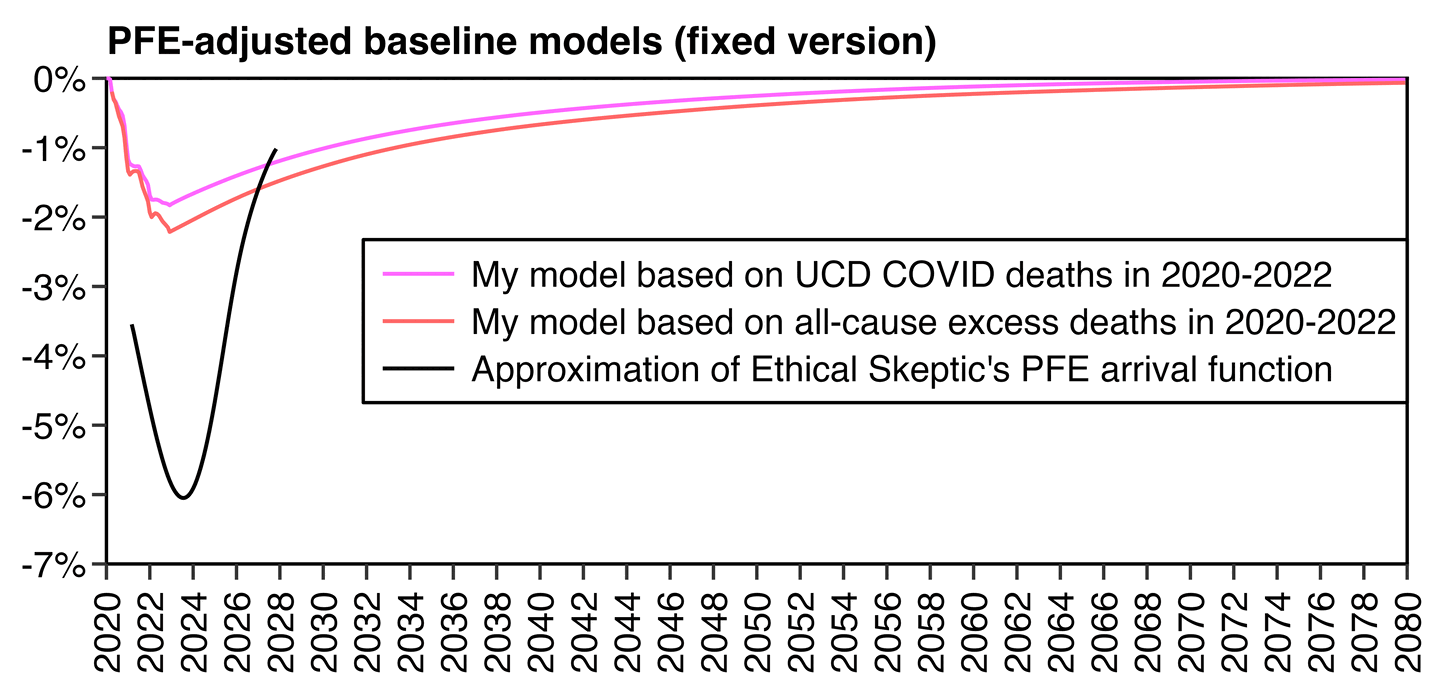
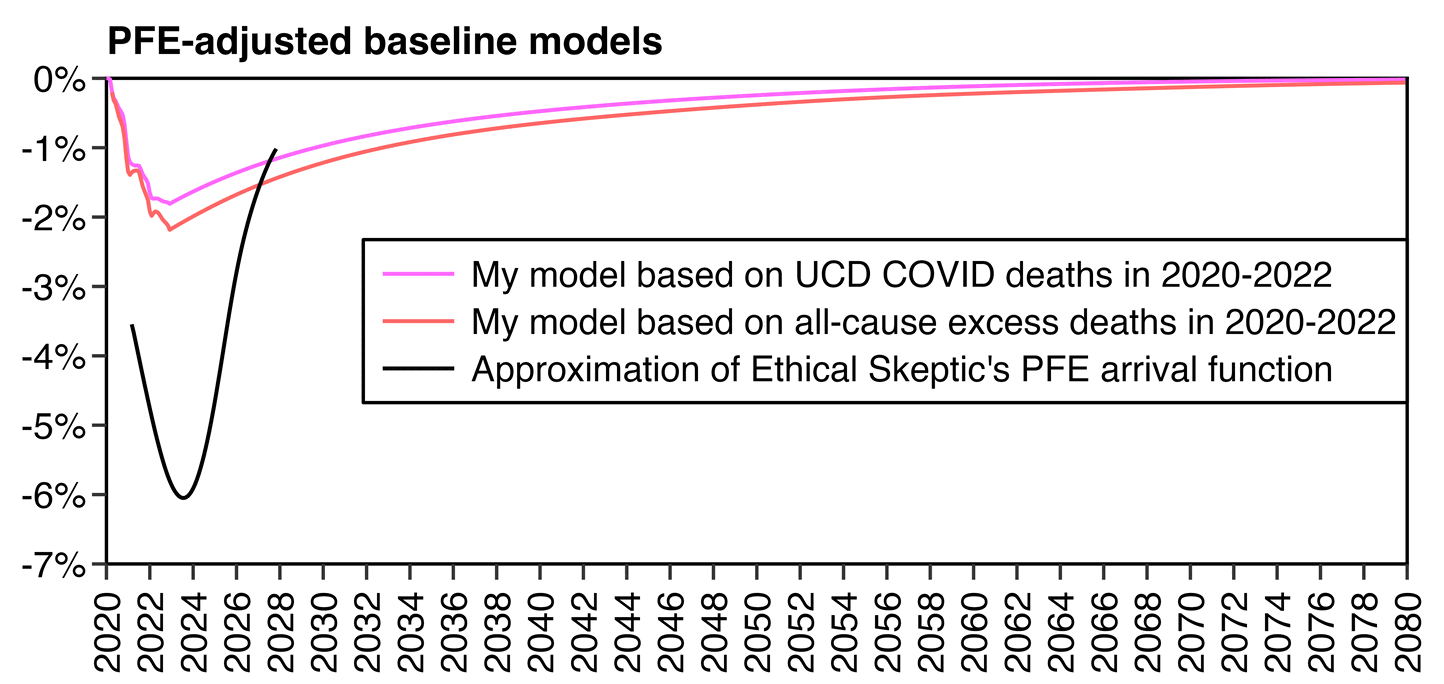
a

Changed region(s): [[0.0935, 0.1228, 0.7479, 0.3377], [0.4675, 0.0307, 0.6544, 0.0921]]

diff --git a/ethical2.html b/ethical2.html
@@ -451,42 +451,42 @@ months=12*60;maxage=Inf
 
 t=do.call(rbind,lapply(2020:2022,\(i)fread(paste0(i,&quot;.csv.gz&quot;))[ucod==&quot;U071&quot;&amp;restatus!=4,.(age,month=(year-2020)*12+monthdth)]))
 t=t[age!=9999][,age:=ifelse(age&gt;1000,age%%1000,0)]
-t=t[age&lt;maxage]
+t=t[age&lt;=maxage]
 t[,age:=age*12+sample(0:11,.N,T)]
 covid=t[,.(pop=.N),.(month,age)]
 
 pop=fread(&quot;http://sars2.net/f/uspopdead.csv&quot;)[year==2019]
-cmr=pop[age!=100,dead/pop]/12
-cmr=pmin(1,exp(spline(seq(7,,12,100),log(cmr),xout=0:(12*121))$y))
-
-dead1=double();prev=NULL
-for(i in 1:months){
-  cur=rbind(prev,covid[month==i])[,.(pop=sum(pop)),.(month,age)]
-  died=cur[,cmr[pmin(age+1,length(cmr))]*pop]
-  dead1[i]=sum(died)
-  prev=cur[,.(month=i+1,age=age+1,pop=pop-died)]
-}
+risk=pop[age&lt;100,.(age,risk=1-(1-dead/pop)^(1/12))]
+risk=c(risk$risk,risk[age&gt;=90,exp(predict(lm(log(risk)~age),.(age=100:120)))])
+risk=spline(seq(6,,12,121),risk,xout=0:(121*12-1))$y
 
 all=fread(&quot;http://sars2.net/f/uspopdeadmonthly.csv&quot;)[year%in%2011:2022]
 all[,date:=(year-2020)*12+month][,cmr:=dead/persondays]
 all=merge(all,all[year&lt;2020,.(date=unique(all$date),base=predict(lm(cmr~date),.(date=unique(all$date)))),age])
 all=merge(all[year&lt;2020,.(monthly=mean(cmr/base)),.(month,age)],all)
-all=all[age&lt;maxage]
-all=all[date%in%1:36,.(pop=sum(dead)-sum(base*persondays*monthly)),,.(age=age*12+6,month=date)]
+allcause=all[age&lt;=maxage&amp;date%in%1:36,.(pop=sum(dead)-sum(base*persondays*monthly)),,.(age=age*12+6,month=date)]
 
-dead2=double();prev=NULL
+dead0=double();cur=pop[age&lt;maxage*12,.(age=age*12+6,pop,month=1)]
 for(i in 1:months){
-  cur=rbind(prev,all[month==i])[,.(pop=sum(pop)),.(month,age)]
-  died=cur[,cmr[pmin(age+1,length(cmr))]*pop]
-  dead2[i]=sum(died)
+  died=cur[,risk[pmin(age+1,length(risk))]*pop]
+  dead0[i]=sum(died)
+  cur=cur[,.(month=i+1,age=age+1,pop=pop-died)][,.(pop=sum(pop)),.(month,age)]
+}
+
+dead1=double();prev=NULL
+for(i in 1:months){
+  cur=rbind(prev,covid[month==i])[,.(pop=sum(pop)),.(month,age)]
+  died=cur[,risk[pmin(age+1,length(risk))]*pop]
+  dead1[i]=sum(died)
   prev=cur[,.(month=i+1,age=age+1,pop=pop-died)]
 }
 
-dead0=double();cur=pop[age&lt;=maxage*12,.(age=age*12,pop,month=1)]
+dead2=double();prev=NULL
 for(i in 1:months){
-  died=cur[,cmr[pmin(age+1,length(cmr))]*pop]
-  dead0[i]=sum(died)
-  cur=cur[,.(month=i+1,age=age+1,pop=pop-died)][,.(pop=sum(pop)),.(month,age)]
+  cur=rbind(prev,allcause[month==i])[,.(pop=sum(pop)),.(month,age)]
+  died=cur[,risk[pmin(age+1,length(risk))]*pop]
+  dead2[i]=sum(died)
+  prev=cur[,.(month=i+1,age=age+1,pop=pop-died)]
 }
 
 pfe=c(-3.5,-4.9,-5.9,-5.9,-4.7,-2.9,-1.7,-1)
@@ -536,13 +536,52 @@ theme(axis.text=element_text(size=7,color=&quot;black&quot;),
 ggsave(&quot;1.png&quot;,width=3.8,height=1.8,dpi=380*4)
 system(&quot;magick 1.png -resize 25% -colors 256 1.png&quot;)</pre>
 </div>
-<p>In the plot above the reason why the red line is still so low in the 2070s is because young age groups had a lot of excess deaths from external causes in 2020-2022.</p>
+<p>Here's a simplified version of my code that only calculates the red model based on all-cause deaths:</p>
+<pre>months=12*60;maxage=Inf
+
+# monthly mortality risk by age in months for ages 0 to 120 (age 0 to 121*12-1 months)
+# risk for ages 100-120 is extrapolated on a log scale from risk for ages 90-99
+pop=fread(&quot;http://sars2.net/f/uspopdead.csv&quot;)[year==2019]
+risk=pop[age&lt;100,.(age,risk=1-(1-dead/pop)^(1/12))]
+risk=c(risk$risk,risk[age&gt;=90,exp(predict(lm(log(risk)~age),.(age=100:120)))])
+risk=spline(seq(6,,12,121),risk,xout=0:(121*12-1))$y
+
+# excess number of all-cause deaths by age in months and month in 2020-2022
+# a seasonality-adjusted linear baseline for CMR in 2011-2019 is used for each age
+# date 1 is January 2020 and date 36 is December 2022
+all=fread(&quot;http://sars2.net/f/uspopdeadmonthly.csv&quot;)[year%in%2011:2022&amp;age&lt;=maxage]
+all[,date:=(year-2020)*12+month][,cmr:=dead/persondays]
+dates=unique(all$date)
+all=merge(all,all[year&lt;2020,.(date=dates,base=predict(lm(cmr~date),.(date=dates))),age])
+all=merge(all[year&lt;2020,.(monthly=mean(cmr/base)),.(month,age)],all)
+allcause=all[date%in%1:36,.(pop=sum(dead)-sum(base*persondays*monthly)),.(age=age*12+6,month=date)]
+
+# baseline model
+dead0=double();cur=pop[age&lt;=maxage,.(age=age*12+6,pop,month=1)]
+for(i in 1:months){
+  died=cur[,risk[pmin(age+1,length(risk))]*pop]
+  dead0[i]=sum(died)
+  cur=cur[,.(month=i+1,age=age+1,pop=pop-died)][,.(pop=sum(pop)),.(month,age)]
+}
+
+# model based on all-cause excess deaths
+dead2=double();prev=NULL
+for(i in 1:months){
+  cur=rbind(prev,allcause[month==i])[,.(pop=sum(pop)),.(month,age)]
+  died=cur[,risk[pmin(age+1,length(risk))]*pop]
+  dead2[i]=sum(died)
+  prev=cur[,.(month=i+1,age=age+1,pop=pop-died)]
+}
+
+# baseline reduction percent for PFE-adjusted baseline (month 1 is January 2020)
+data.table(month=1:months,reductionpct=-dead/dead0*100)</pre>
+<p>In my model the reason why the red line is still so low in the 2070s is because young age groups had a lot of excess deaths from external causes in 2020-2022.</p>
 <p>In November 2024 Ethical Skeptic said that he currently subtracts a total of 668,592 deaths from his PFE-adjusted baseline, even though my approximation of his PFE arrival function was based on this old plot where he only subtracted 587,000 deaths:</p>
 <div class="width5">
 <img src="i/np-bergamo-pfe-arrival.png">
 </div>
-<p>Ethical Skeptic's PFE adjustment is fully <span class="quote">&quot;expired&quot;</span> by October 2027 which means that after that point he will no longer subtract further deaths. But he said that in November 2024 his baseline was approximately 69% expired, which means that at that point he would've already subtracted about 69% of 668,592 deaths, which is about 460,000. However in the red line in my plot above I had only subtracted a total of only about 227,000 deaths by the end of November 2024, which is only about half of his figure.</p>
-<p>Ethical Skeptic often applies heavy adjustment for the PFE even in plots for young age groups like 0-54. But based on these models for ages 0-54, the maximum reduction to the baseline up to the end of 2024 was only about 0.12% in the model based on COVID deaths and about 0.24% in the model based on all-cause deaths:</p>
+<p>Ethical Skeptic's PFE adjustment is fully <span class="quote">&quot;expired&quot;</span> by October 2027 which means that after that point he will no longer subtract further deaths. But he said that in November 2024 his baseline was approximately 69% expired, which means that at that point he would've already subtracted about 69% of 668,592 deaths, which is about 460,000. However in the red line in my plot above I had only subtracted a total of only about 243,000 deaths by the end of November 2024, which is only about half of his figure.</p>
+<p>Ethical Skeptic often applies heavy adjustment for the PFE even in plots for young age groups like 0-54. But based on these models for ages 0-54, the maximum reduction to the baseline up to the end of 2024 was only about 0.07% in the model based on COVID deaths and about 0.17% in the model based on all-cause deaths:</p>
 <div class="width6">
 <img src="i/ethical-arrival-2.png">
 </div>
